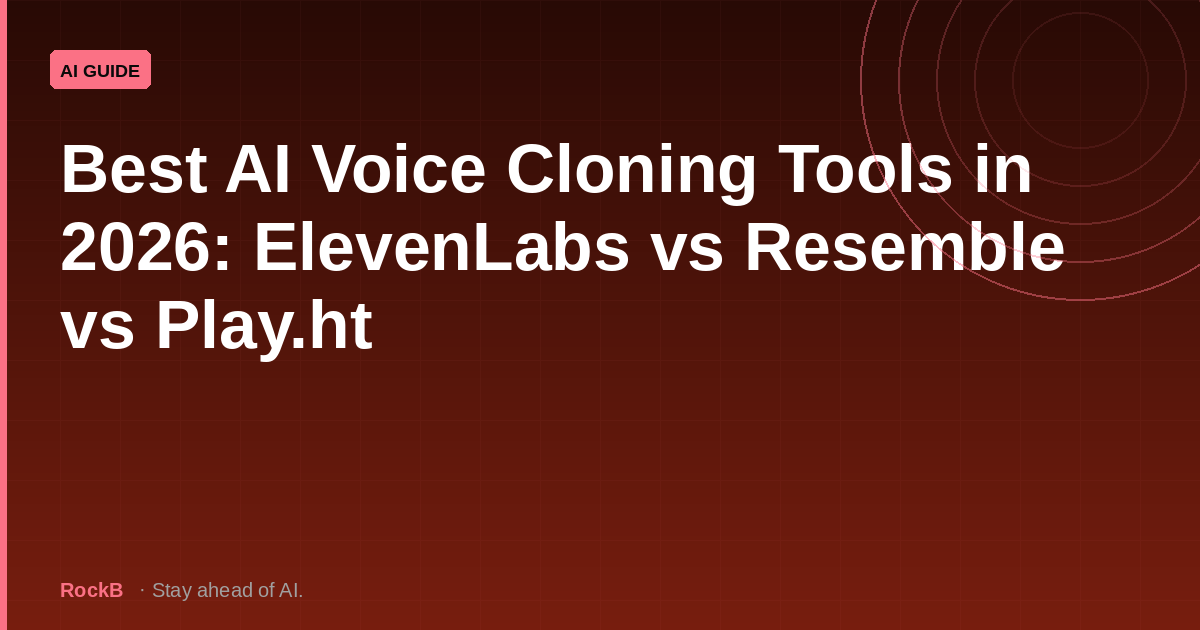
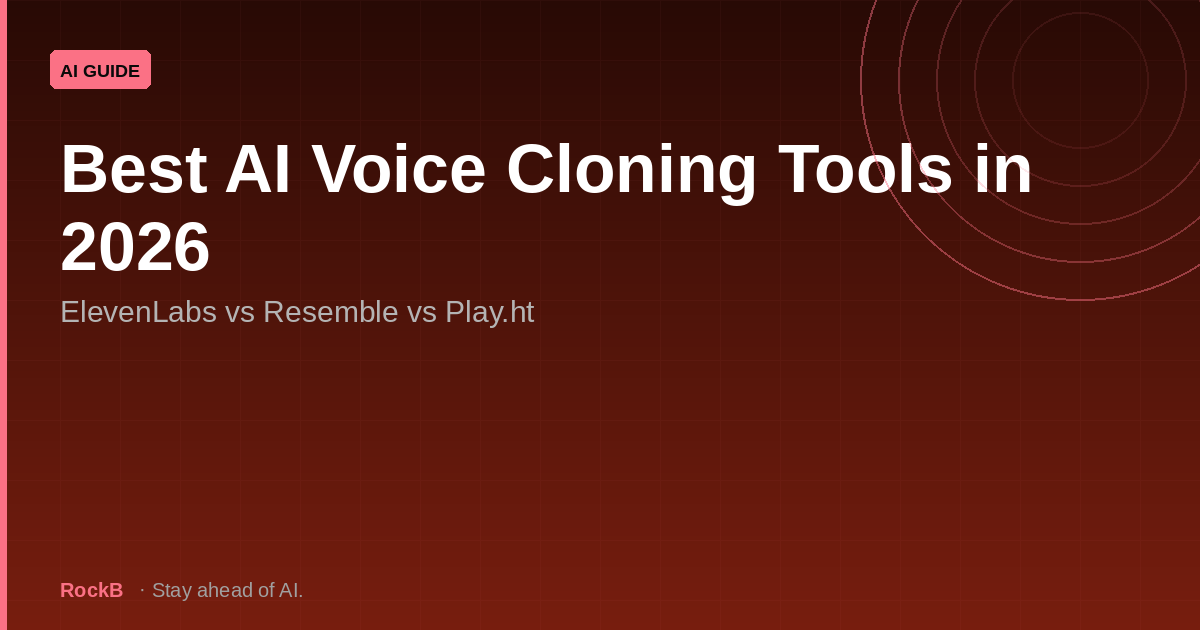
fix: add title/subtitle split on colon in cover image generator, regenerate 9 images

Changed region(s): [[0.185, 0.3317, 0.8942, 0.4524], [0.0308, 0.4524, 0.4625, 0.573]]

diff --git a/agents/cover-image/gen_cover.py b/agents/cover-image/gen_cover.py
@@ -122,17 +122,35 @@ def generate(slug):
     draw.rounded_rectangle([50, 50, 70 + tag_w, 88], radius=6, fill=p["dot"])
     draw.text((60, 60), tag_label, font=tag_font, fill=(10, 10, 10))
 
-    # Title (auto-wrap, max 2 lines at 68px, fall back to 52px if too long)
+    # Split title on ":" into main title + subtitle
+    if ":" in title:
+        main_title, subtitle = title.split(":", 1)
+        main_title = main_title.strip()
+        subtitle = subtitle.strip()
+    else:
+        main_title = title
+        subtitle = ""
+
+    # Main title (auto-wrap, large bold)
     for font_size in [68, 56, 46]:
         title_font = ImageFont.truetype(FONT_BOLD, font_size)
-        lines = wrap_text(title, title_font, W - 120, draw)
-        if len(lines) <= 3:
+        lines = wrap_text(main_title, title_font, W - 120, draw)
+        if len(lines) <= 2:
             break
 
     title_y = 130
-    for line in lines[:3]:
+    for line in lines[:2]:
         draw.text((60, title_y), line, font=title_font, fill=(255, 255, 255))
         title_y += font_size + 10
+
+    # Subtitle (smaller, lighter gray)
+    if subtitle:
+        sub_font = ImageFont.truetype(FONT_REG, 30)
+        sub_lines = wrap_text(subtitle, sub_font, W - 120, draw)
+        title_y += 8
+        for line in sub_lines[:2]:
+            draw.text((60, title_y), line, font=sub_font, fill=(180, 180, 180))
+            title_y += 40
 
     # Brand line
     brand_font = ImageFont.truetype(FONT_BOLD, 20)
